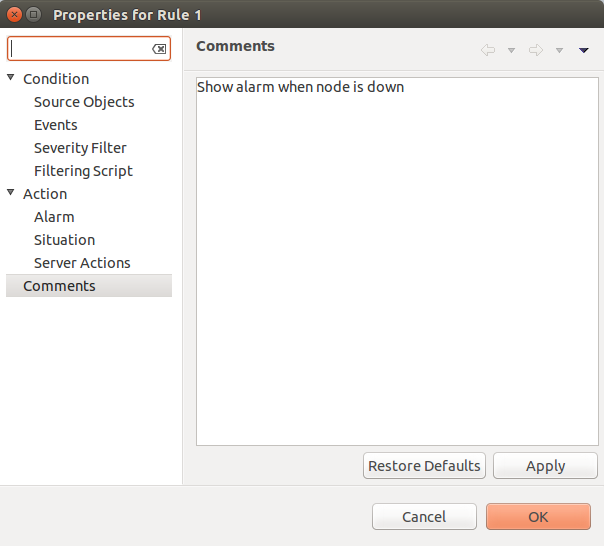
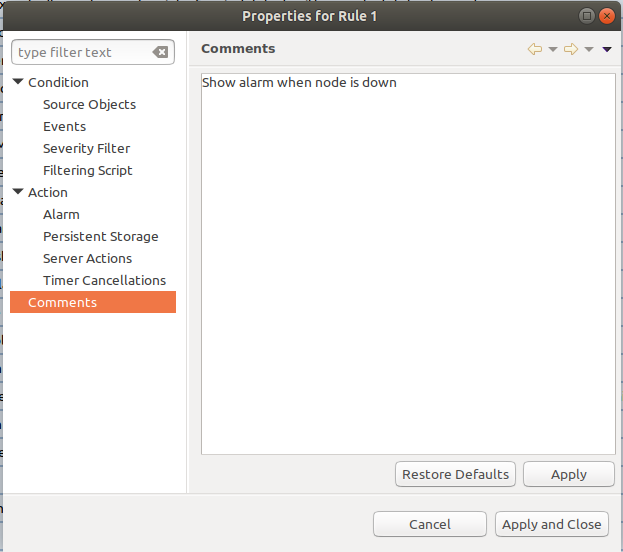
Updated information baout EPP (delayed action and timer cancelation)

Changed region(s): [[0.0, 0.0, 1.0, 1.0], [0.596, 0.9341, 0.6258, 0.9652]]

diff --git a/admin/event-processing.rst b/admin/event-processing.rst
@@ -81,12 +81,13 @@ In EPP properties there are following sections:
    * - Action --> Alarm
      - There can be set rules connected with alarm generation. Alarm can be created, 
        resolved or terminated ore done nothing. 
-   * - Action --> Situations 
-     - :ref:`event_corelation` **TODO** functionality will be changed to NXSL Pers. Store
+   * - Action --> Persistent Storage 
+     - :ref:`nxsl_persistent_storage` action like add/update or delete can be made.
    * - Action --> Server Actions 
      - There is defined list of actions to be executed if condition is met. For action 
        configuration refer to :ref:`actions` chapter.
-
+   * - Action --> Timer Cancellations
+     - There is defined list of timmers that should be canceled if condition is met. 
 
 
 
@@ -357,9 +358,6 @@ new event can be generated and this time email or SMS can be sent to operator or
 This escalation process can have as many steps as it is required. 
 
 
-Example 1:
-  - TODO: create example of escalation with screenshot of EPP
-
 .. _actions:
   
 Actions
@@ -369,14 +367,40 @@ In addition to alarm generation server can perform various types of actions as a
 Action types available in NetXMS are described in the following sections. Each action can be separately 
 disabled in action configuration. 
 
+After the action is added, it can be edited to add delay time and timer key. This option can be used to 
+prevent notification send in case if problem solved quickly enough. Key is a free form string that support 
+:ref:`macro<event-processing-macros>` and delay is the delay time in seconds before action is executed. 
+
+The next example shows the configuration for the situation when there is no need to notify anyone if node went down 
+and back up in just a minute.
+
+.. figure:: _images/delayed_action.png
+
+
+Escalation
+----------
+
+One :term:`EPP` rule can contain multiple actions with different delays. Delay timers are 
+canceled by other rule in case of problem resolution. 
+
+The next example shows that if node went down, then 
+   #. after 1 minute responsible person will be notified if the problem still persists
+   #. after 30 minutes the support manager will be notified if the problem still persists
+   #. after 1 hour the IT manager will be notified if the problem still persists 
+   
+.. figure:: _images/delayed_action_escalation.png
+
+Action types
+------------
+
 Execute command on management server
-------------------------------------
+~~~~~~~~~~~~~~~~~~~~~~~~~~~~~~~~~~~~
 
 Executes provided command on server node. Check that user under witch :file:`netxmsd` process 
 run has permission to run this command. 
 
 Execute command on remote node
-------------------------------
+~~~~~~~~~~~~~~~~~~~~~~~~~~~~~~
 
 Executes provided command name defined in this nodes agent configuration file. To this 
 command can be given parameters in format: ``commandName param1 param2 param3...`` 
@@ -387,7 +411,7 @@ As the :guilabel:`Remote Host` can be used hostname or object name(int format: `
 Second option allows action execution on node behind proxy. 
 
 Send e-mail
------------
+~~~~~~~~~~~
 
 Send email to one or more recipients. Multiple recipients can be separated by semicolons. 
 Required server configuration parameters to send emails: ``SMTPFromAddr``, ``SMTPFromName``,
@@ -396,7 +420,7 @@ Required server configuration parameters to send emails: ``SMTPFromAddr``, ``SMT
 In message text can be used :ref:`event-processing-macros`.
 
 Send SMS
---------
+~~~~~~~~
 
 Send SMS to one or more recipients. Multiple recipients can be separated by semicolons. 
 Server will use :ref:`SMS driver<sms-drivers>` for actual message sending.
@@ -404,7 +428,7 @@ Server will use :ref:`SMS driver<sms-drivers>` for actual message sending.
 In message text can be used :ref:`event-processing-macros`.
 
 Send XMPP message
------------------
+~~~~~~~~~~~~~~~~~
 
 Sends XMPP/Jabber message to one or more recipients. Multiple recipients can be separated by semicolons.
 equired server configuration parameters to send XMPP message: :guilabel:`XMPPLogin`, :guilabel:`XMPPPassword`,
@@ -414,7 +438,7 @@ parameters check :ref:`server_configuration_parameters`.
 In message text can be used :ref:`event-processing-macros`.
 
 Execute NXSL script
--------------------
+~~~~~~~~~~~~~~~~~~~
 
 This action executes script form scrip library. In action configuration should be defined name of script. 
 Information about scripting and library can be found :ref:`there<scripting>`.
@@ -423,13 +447,14 @@ Information about scripting and library can be found :ref:`there<scripting>`.
 .. _forward_events:
 
 Forward event
--------------
+~~~~~~~~~~~~~
+
 NetXMS does not support configuration synchronization between two NetXMS servers(Distributed Monitoring). But it is possible
 to forward events from one server to another. This option allow synchronize events between servers but there are some limitation. 
 
 
 Configuration
-~~~~~~~~~~~~~
+^^^^^^^^^^^^^
 
 Source server configuration:
   1. Create new action of type "forward event" - it will have destination server address property.
@@ -442,7 +467,7 @@ Destination server configuration:
 
  
 Limitation
-~~~~~~~~~~
+^^^^^^^^^^
  
 Limitations of event forwarding:
   1. Event template with same event code or event name must exist on recipient server
@@ -457,7 +482,7 @@ polling protocols or unmanage nodes. Chose  depends on how you wish to see node'
 "unmanaged", regardless of active alarms. If you disable polling, node's status will be "unknown" unless there will be active 
 alarms for that node - in that case node's status will change to severity of most critical alarm.
 
-.. _event_corelation:
+.. _nxsl_persistent_storage:
 
 NXLS Persistent Storage
 =======================
